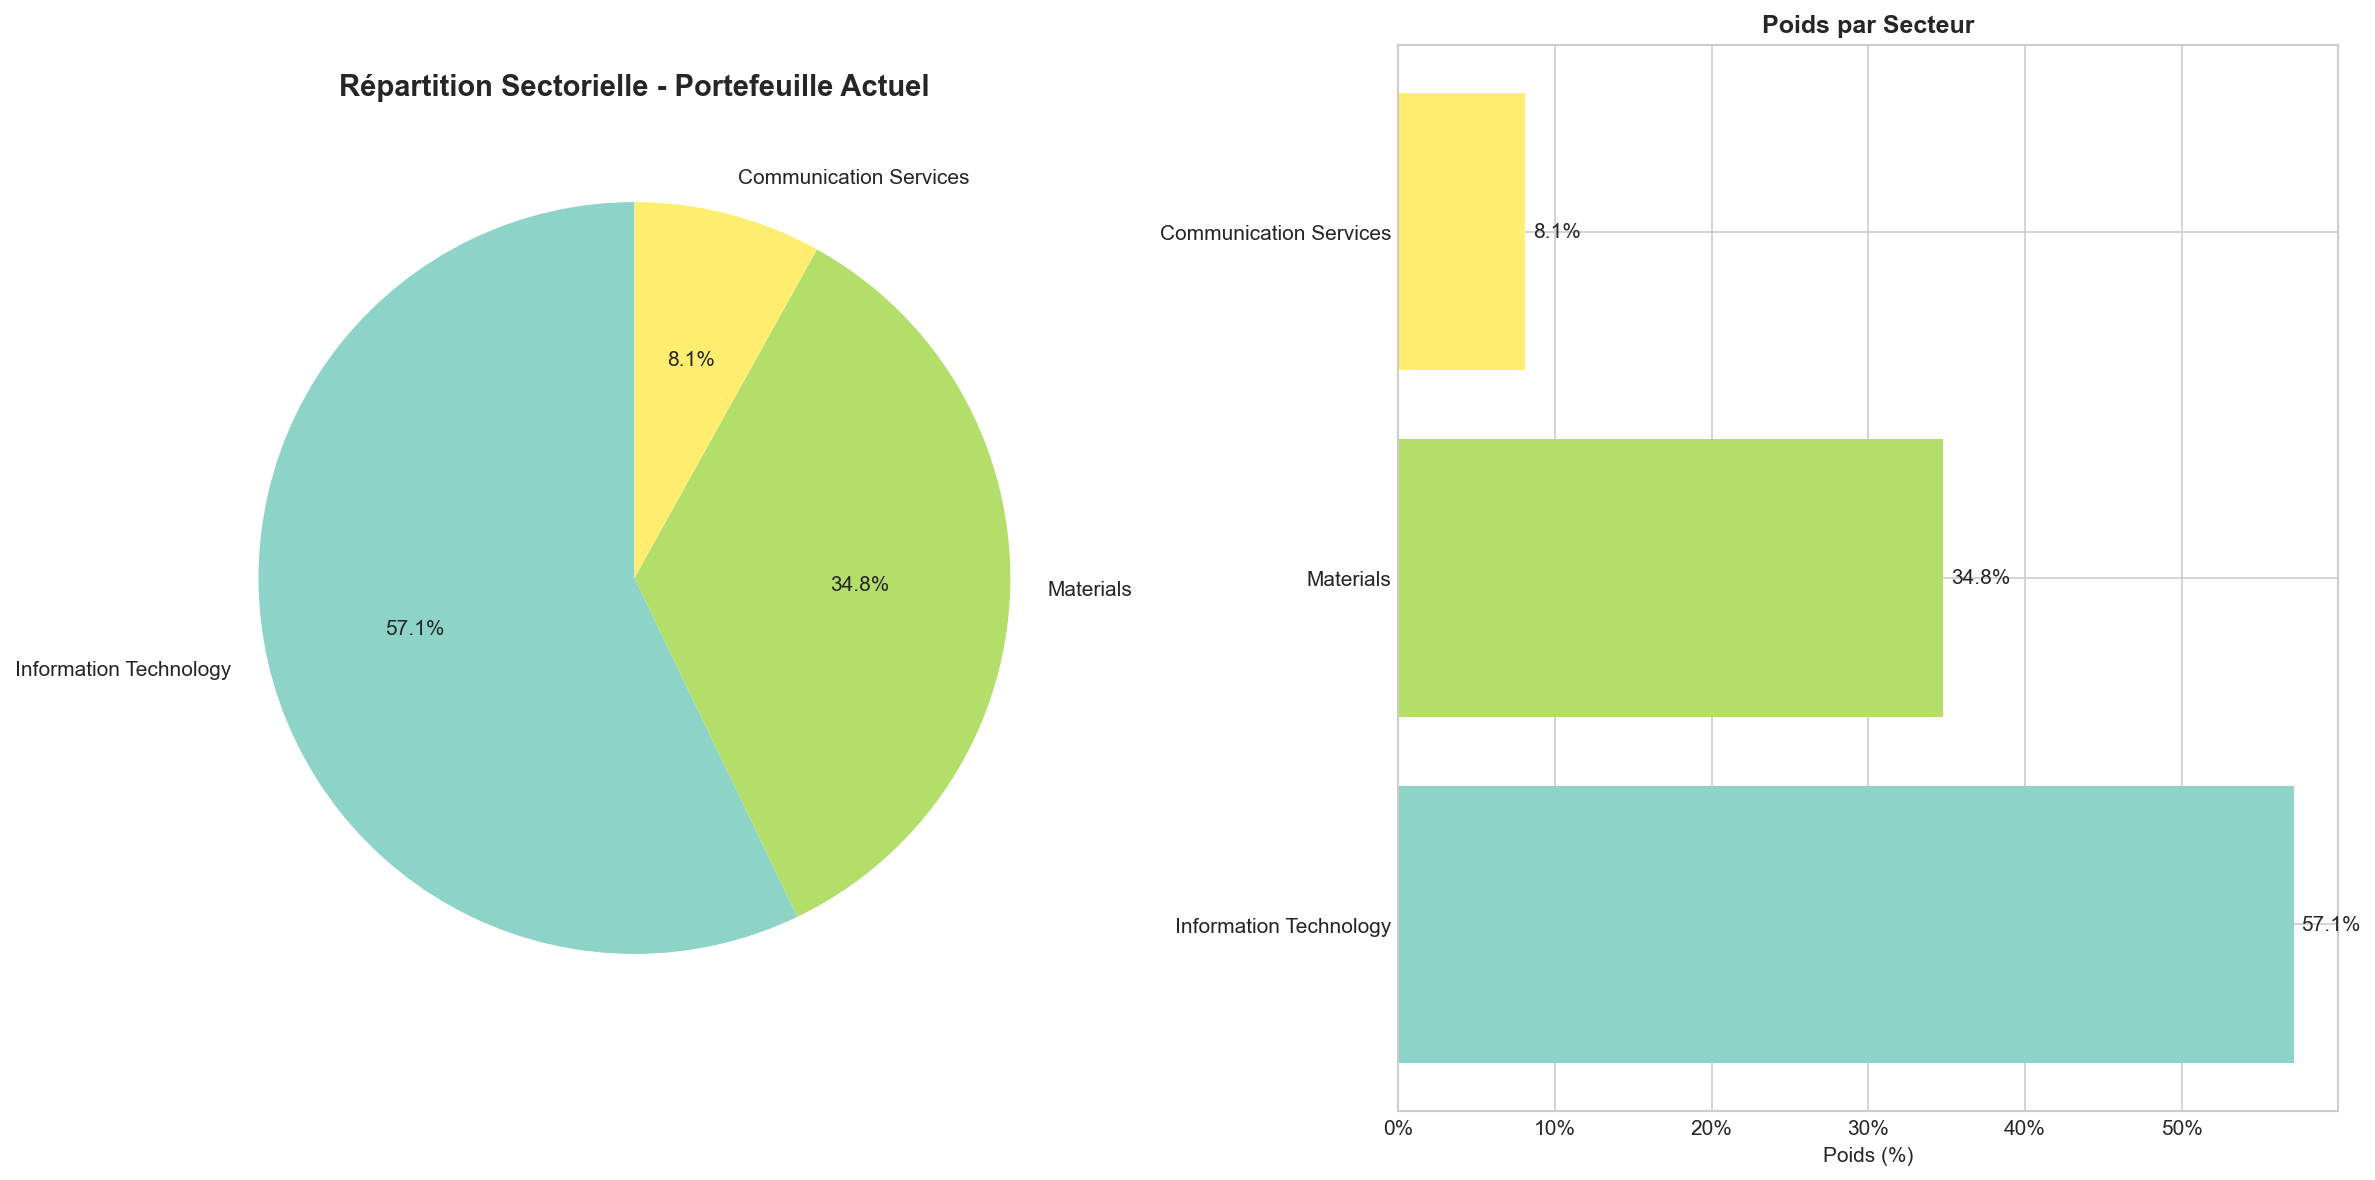
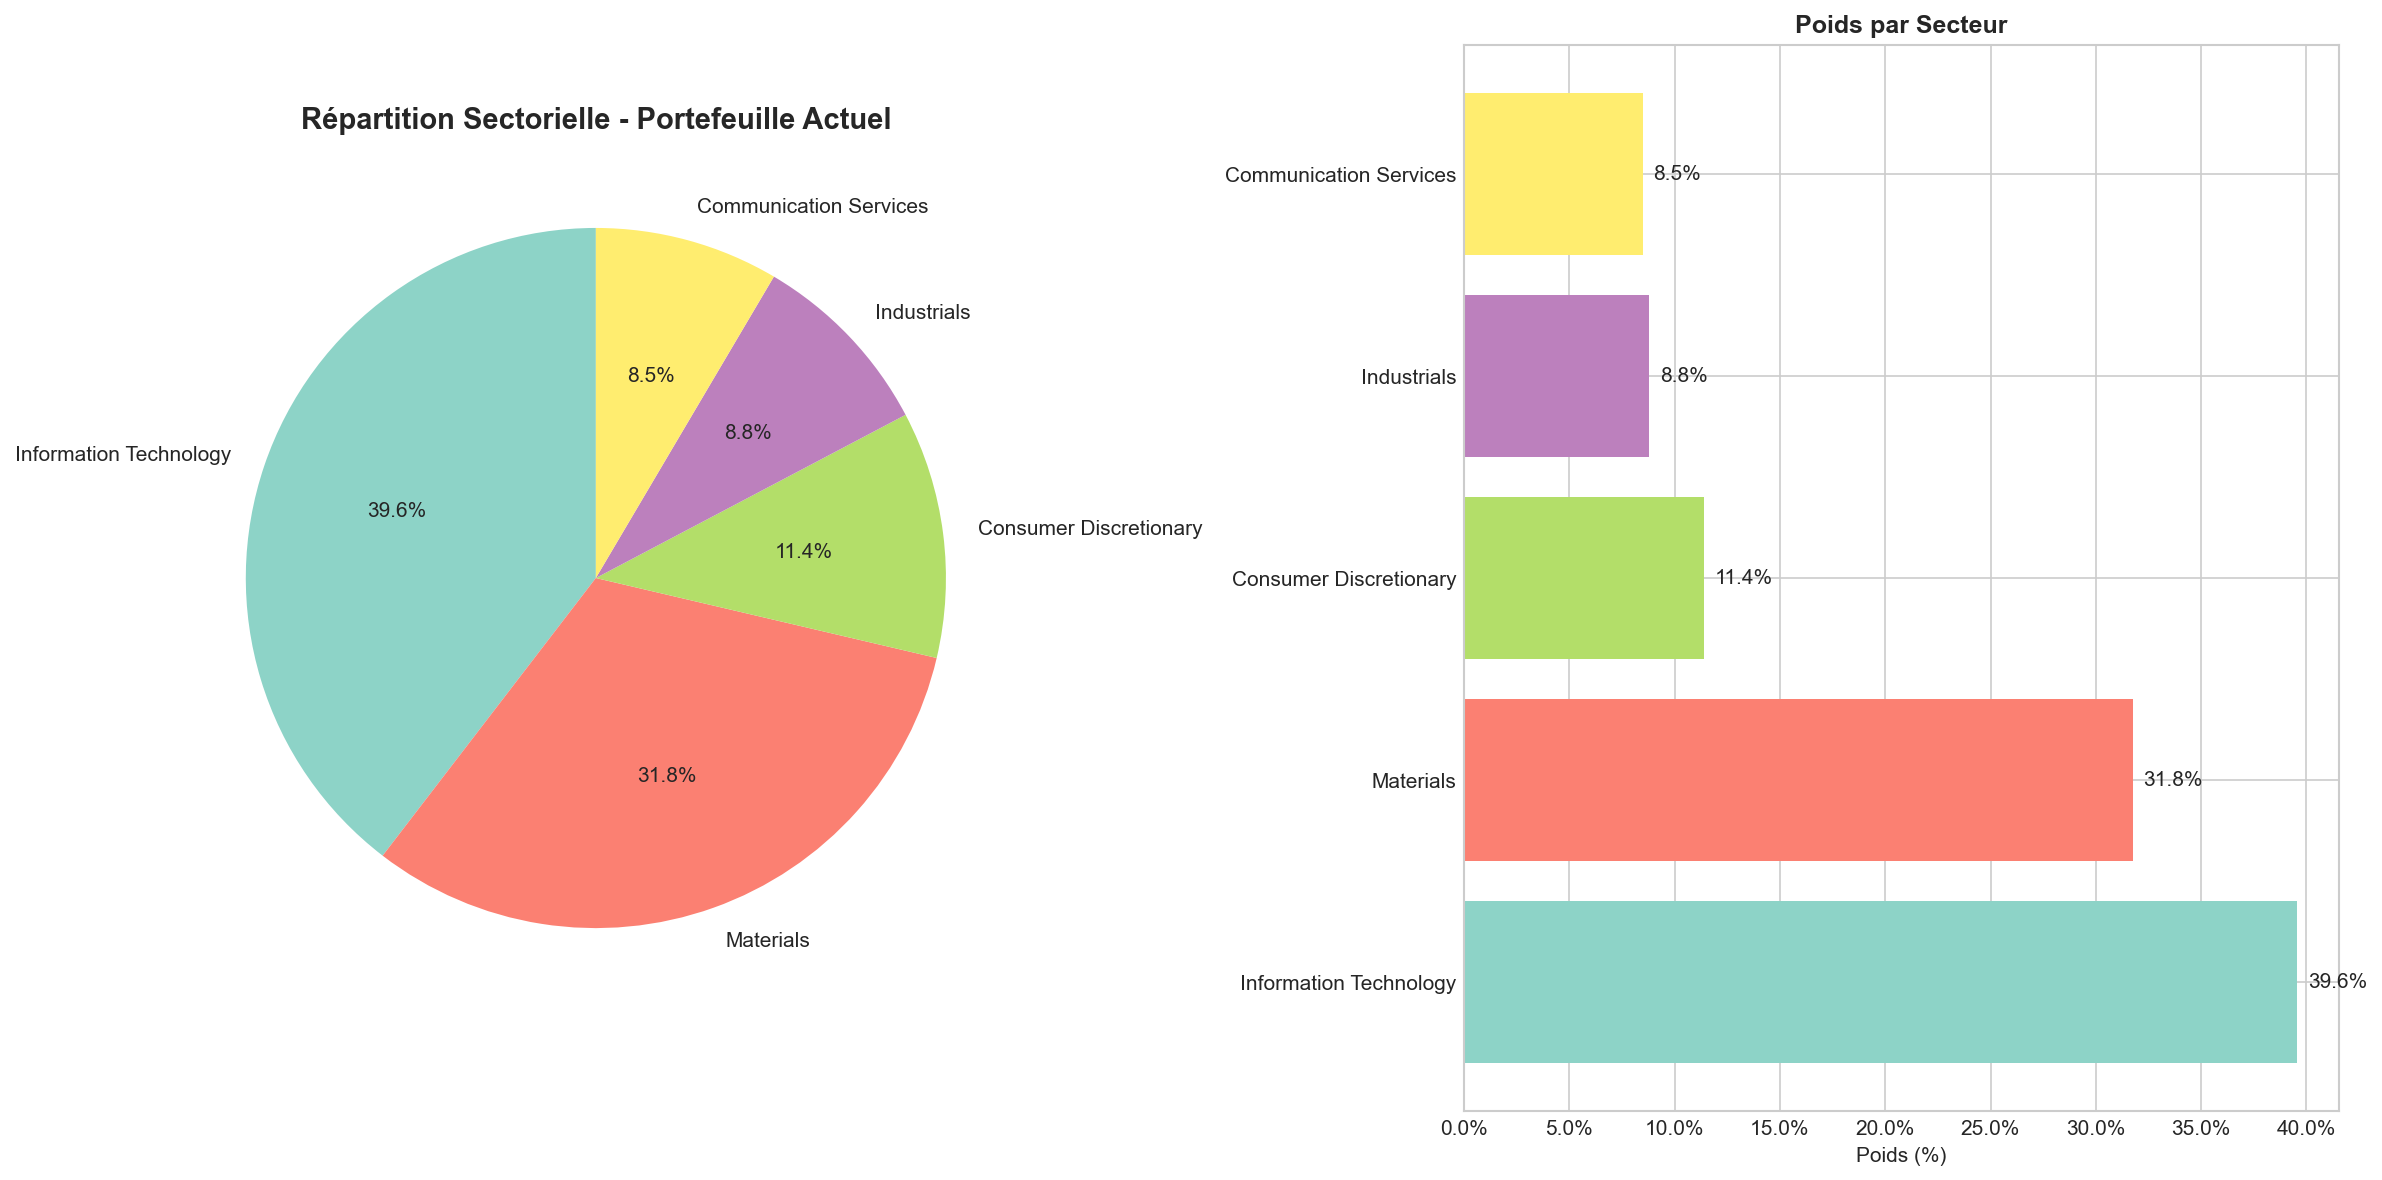
STRATÉGIE HYBRIDE VALUE/SIZE + COMPOSITE: 30%/70% allocation
Nouvelles fonctionnalités:
 Implémentation stratégie hybride avec allocation 30% VALUE/SIZE (5 actions) + 70% COMPOSITE (15 actions)
 Ajout des fonctions de scoring VALUE/SIZE basées sur P/B, P/E et Market Cap
 Extension data_loader.py avec chargement données fondamentales (load_pb_ratio, load_pe_ratio, load_market_cap)
 Modification backtest.py pour supporter la sélection hybride
 Mise à jour main.py pour utiliser la stratégie hybride par défaut

 Performance (CAGR 28.76%, Sharpe 2.07):
 CAGR: 28.76% (vs 27.2% pure momentum)
 Sharpe: 2.07 (maintien excellent niveau)
 Max DD: -7.85% (contrôlé)
 Hit Ratio: 73.33%
 Return total: +1168.34%

 Architecture technique:
 compute_value_score(), compute_size_score(), compute_value_size_score() dans signals.py
 select_hybrid_portfolio() avec allocation configurable
 Intégration transparente avec ERC allocation
 Fallback automatique sur score composite si données VALUE/SIZE indisponibles

diff --git a/signals.py b/signals.py
@@ -221,3 +221,132 @@ def select_top_n(
         kept = kept_scores.head(n).index.tolist()
 
     return kept
+
+
+# ═══════════════════════════════════════════════════════════════════
+#  VALUE et SIZE strategies
+# ═══════════════════════════════════════════════════════════════════
+
+def compute_value_score(fundamentals: dict, t: int, members: list = None) -> pd.Series:
+    """
+    Score VALUE basé sur P/B et P/E ratios.
+    Plus le ratio est faible (valorisation cheap), meilleur le score.
+    """
+    pb_df = fundamentals.get('pb_ratio', pd.DataFrame())
+    pe_df = fundamentals.get('pe_ratio', pd.DataFrame())
+    
+    if pb_df.empty and pe_df.empty:
+        return pd.Series(dtype=float)
+    
+    scores = pd.Series(dtype=float)
+    
+    # P/B ratio : plus faible = meilleur
+    if not pb_df.empty and t < len(pb_df):
+        pb_values = pb_df.iloc[t].dropna()
+        if len(pb_values) > 1:
+            pb_zscore = (pb_values - pb_values.mean()) / pb_values.std()
+            pb_score = -pb_zscore  # Inverser : faible P/B = score élevé
+            scores = scores.add(pb_score, fill_value=0)
+    
+    # P/E ratio : plus faible = meilleur
+    if not pe_df.empty and t < len(pe_df):
+        pe_values = pe_df.iloc[t].dropna()
+        if len(pe_values) > 1:
+            pe_zscore = (pe_values - pe_values.mean()) / pe_values.std()
+            pe_score = -pe_zscore  # Inverser : faible P/E = score élevé  
+            scores = scores.add(pe_score, fill_value=0)
+    
+    # Filtrer par membres autorisés
+    if members is not None:
+        scores = scores.reindex(members).dropna()
+    
+    return scores.sort_values(ascending=False)
+
+
+def compute_size_score(fundamentals: dict, t: int, members: list = None) -> pd.Series:
+    """
+    Score SIZE basé sur Market Cap.
+    Plus la capitalisation est faible (small caps), meilleur le score.
+    """
+    mcap_df = fundamentals.get('market_cap', pd.DataFrame())
+    
+    if mcap_df.empty or t >= len(mcap_df):
+        return pd.Series(dtype=float)
+    
+    mcap_values = mcap_df.iloc[t].dropna()
+    
+    if len(mcap_values) <= 1:
+        return pd.Series(dtype=float)
+    
+    # Inverser : petite capitalisation = score élevé
+    mcap_zscore = (mcap_values - mcap_values.mean()) / mcap_values.std()
+    size_score = -mcap_zscore
+    
+    # Filtrer par membres autorisés
+    if members is not None:
+        size_score = size_score.reindex(members).dropna()
+    
+    return size_score.sort_values(ascending=False)
+
+
+def compute_value_size_score(fundamentals: dict, t: int, members: list = None) -> pd.Series:
+    """
+    Score combiné VALUE + SIZE avec pondération égale.
+    """
+    value_score = compute_value_score(fundamentals, t, members)
+    size_score = compute_size_score(fundamentals, t, members)
+    
+    # Combiner avec normalisation
+    combined_score = pd.Series(dtype=float)
+    all_tickers = set()
+    
+    if not value_score.empty:
+        all_tickers.update(value_score.index)
+    if not size_score.empty:
+        all_tickers.update(size_score.index)
+    
+    if not all_tickers:
+        return pd.Series(dtype=float)
+    
+    # Normaliser et combiner
+    for ticker in all_tickers:
+        score = 0.0
+        count = 0
+        
+        if ticker in value_score.index:
+            score += value_score[ticker]
+            count += 1
+        if ticker in size_score.index:
+            score += size_score[ticker]
+            count += 1
+        
+        if count > 0:
+            combined_score[ticker] = score / count
+    
+    return combined_score.sort_values(ascending=False)
+
+
+def select_hybrid_portfolio(prices: pd.DataFrame, fundamentals: dict, t: int, 
+                           members: list = None, n_composite: int = 15, n_value_size: int = 5) -> list:
+    """
+    Sélection hybride : 70% composite (15 actions) + 30% value/size (5 actions).
+    """
+    # Sélection composite (momentum dominant)
+    composite_selected = select_top_n(prices, t, members=members, n=n_composite)
+    
+    # Sélection value/size
+    value_size_score = compute_value_size_score(fundamentals, t, members=members)
+    value_size_selected = value_size_score.head(n_value_size).index.tolist()
+    
+    # Éviter les doublons
+    value_size_final = [ticker for ticker in value_size_selected 
+                       if ticker not in composite_selected]
+    
+    # Si pas assez de titres value/size uniques, compléter avec composite
+    if len(value_size_final) < n_value_size:
+        needed = n_value_size - len(value_size_final)
+        extra_composite = [ticker for ticker in value_size_score.index 
+                          if ticker not in composite_selected and ticker not in value_size_final]
+        value_size_final.extend(extra_composite[:needed])
+    
+    return composite_selected + value_size_final[:n_value_size]

diff --git a/data_loader.py b/data_loader.py
@@ -68,6 +68,39 @@ def load_risk_free(path=DATA_FILE) -> pd.Series:
     return rf_annual
 
 
+def load_pb_ratio(path=DATA_FILE) -> pd.DataFrame:
+    """
+    Charge les ratios P/B depuis la feuille SPX_PX_TO_BOOK_RATIO.
+    """
+    df = pd.read_excel(path, sheet_name="SPX_PX_TO_BOOK_RATIO")
+    date_col = df.columns[0]
+    df[date_col] = pd.to_datetime(df[date_col], dayfirst=True)
+    df = df.set_index(date_col).sort_index()
+    return df.select_dtypes(include=[np.number])
+
+
+def load_pe_ratio(path=DATA_FILE) -> pd.DataFrame:
+    """
+    Charge les ratios P/E depuis la feuille SPX_PE_RATIO.
+    """
+    df = pd.read_excel(path, sheet_name="SPX_PE_RATIO")
+    date_col = df.columns[0]
+    df[date_col] = pd.to_datetime(df[date_col], dayfirst=True)
+    df = df.set_index(date_col).sort_index()
+    return df.select_dtypes(include=[np.number])
+
+
+def load_market_cap(path=DATA_FILE) -> pd.DataFrame:
+    """
+    Charge les market caps depuis la feuille SPX_CUR_MKT_CAP.
+    """
+    df = pd.read_excel(path, sheet_name="SPX_CUR_MKT_CAP")
+    date_col = df.columns[0]
+    df[date_col] = pd.to_datetime(df[date_col], dayfirst=True)
+    df = df.set_index(date_col).sort_index()
+    return df.select_dtypes(include=[np.number])
+
+
 def load_sectors(path=DATA_FILE) -> pd.DataFrame:
     """
     Charge les secteurs depuis la feuille SPX_Sector.
@@ -189,7 +222,8 @@ def load_all(path=DATA_FILE):
         "spx_daily"      : Series SPX daily
         "rf_annual"      : Series taux sans risque annuel
         "sofr_plus_4_m"  : Series SOFR + 4% mensuel
-        "df_sectors"     : DataFrame mapping ticker -> secteur
+        "df_sectors"     : DataFrame mapping ticker -> secteur 
+        "fundamentals"   : Dict avec pb_ratio, pe_ratio, market_cap
         "rebal_dates"    : list de dates de rebalancement
     """
     # Chargement
@@ -221,6 +255,29 @@ def load_all(path=DATA_FILE):
         print("  [!] Feuille SPX_Sector non trouvee -> secteurs vides")
         df_sectors = pd.DataFrame(columns=['ticker', 'sector'])
 
+    # Donnees fondamentales pour VALUE/SIZE
+    fundamentals = {}
+    try:
+        fundamentals['pb_ratio'] = load_pb_ratio(path)
+        print(f"  P/B ratios charges : {fundamentals['pb_ratio'].shape}")
+    except Exception as e:
+        print(f"  [!] P/B ratios non disponibles : {e}")
+        fundamentals['pb_ratio'] = pd.DataFrame()
+    
+    try:
+        fundamentals['pe_ratio'] = load_pe_ratio(path)
+        print(f"  P/E ratios charges : {fundamentals['pe_ratio'].shape}")
+    except Exception as e:
+        print(f"  [!] P/E ratios non disponibles : {e}")
+        fundamentals['pe_ratio'] = pd.DataFrame()
+    
+    try:
+        fundamentals['market_cap'] = load_market_cap(path)
+        print(f"  Market Cap charge : {fundamentals['market_cap'].shape}")
+    except Exception as e:
+        print(f"  [!] Market Cap non disponible : {e}")
+        fundamentals['market_cap'] = pd.DataFrame()
+
     # Pivot + filtre
     prices = pivot_prices(df_long)
     prices = filter_universe(prices)
@@ -240,6 +297,7 @@ def load_all(path=DATA_FILE):
         "rf_annual":      rf_annual,
         "sofr_plus_4_m":  sofr_plus_4_m,
         "df_sectors":     df_sectors,
+        "fundamentals":   fundamentals,
         "rebal_dates":    rebal_dates,
     }
 
@@ -254,4 +312,7 @@ if __name__ == "__main__":
     print("Rf annual pts    :", len(data["rf_annual"]))
     print("SOFR+4% pts      :", len(data["sofr_plus_4_m"]))
     print("Secteurs shape   :", data["df_sectors"].shape)
+    print("P/B ratios shape :", data["fundamentals"]["pb_ratio"].shape)
+    print("P/E ratios shape :", data["fundamentals"]["pe_ratio"].shape)
+    print("Market Cap shape :", data["fundamentals"]["market_cap"].shape)
     print("Exemple tickers  :", list(data["prices"].columns[:5]))

diff --git a/main.py b/main.py
@@ -29,7 +29,7 @@ from config import START_DATE, END_DATE, N_STOCKS, OUTPUT_DIR, ESG_EXCLUSIONS, E
 
 
 def print_current_portfolio(result: dict):
-    """Affiche les 25 titres et leurs poids pour la dernière période."""
+    """Affiche les titres (20 hybride) et leurs poids pour la dernière période."""
     last_w = result["last_weights"]
     last_date = result["last_date"]
 
@@ -42,8 +42,9 @@ def print_current_portfolio(result: dict):
 
     print("\n" + "=" * 60)
     print(f"  PORTEFEUILLE ACTUEL — {last_date.strftime('%Y-%m-%d')}")
-    print(f"  Méthode : Score Composite + ERC Long-Only (ESG)")
-    print(f"  Nombre de titres : {len(last_w)}")
+    print(f"  Méthode : Stratégie Hybride VALUE/SIZE + COMPOSITE (ESG)")
+    print(f"  Allocation : 30% VALUE/SIZE (5 actions) + 70% COMPOSITE (15 actions)")
+    print(f"  Nombre total de titres : {len(last_w)}")
     print("=" * 60)
     print(f"  {'#':<4} {'Ticker':<12} {'Poids':>10}")
     print("  " + "-" * 28)
@@ -67,19 +68,20 @@ def print_current_portfolio(result: dict):
 
 def main():
     print("=" * 60)
-    print("  BACKTEST LONG-ONLY ERC — S&P 500 (filtre ESG)")
-    print(f"  Top {N_STOCKS} titres par score composite")
+    print("  BACKTEST HYBRIDE VALUE/SIZE + COMPOSITE — S&P 500 (filtre ESG)")
+    print(f"  Portefeuille Hybride : 30% VALUE/SIZE (5 actions) + 70% COMPOSITE (15 actions)")
     print("=" * 60)
 
     # ── 1. Chargement des données ──
     print("\n[1/4] Chargement des données...")
     data = load_all()
 
-    prices     = data["prices"]
-    returns    = data["returns"]
-    df_long    = data["df_long"]
-    rf_annual  = data["rf_annual"]
-    df_sectors = data["df_sectors"]
+    prices      = data["prices"]
+    returns     = data["returns"]
+    df_long     = data["df_long"]
+    rf_annual   = data["rf_annual"]
+    df_sectors  = data["df_sectors"]
+    fundamentals = data["fundamentals"]
 
     # Initialiser le taux sans risque dans metrics
     set_rf_series(rf_annual)
@@ -118,10 +120,12 @@ def main():
         print(f"  Rf moyen : {rf_annual.mean():.2%} annualise")
 
     # ── 2. Lancement du backtest ──
-    print("\n[2/4] Lancement du backtest Long-Only ERC (ESG)...")
+    print("\n[2/4] Lancement du backtest Hybride VALUE/SIZE + COMPOSITE (ESG)...")
 
     result = run_backtest(
         prices, returns, df_long,
+        fundamentals=fundamentals,
+        use_hybrid_strategy=True,
         stoploss_type="position",
         verbose=True,
     )

diff --git a/backtest.py b/backtest.py
@@ -9,7 +9,7 @@ import pandas as pd
 import numpy as np
 
 from config import START_DATE, END_DATE, N_STOCKS, REBAL_FREQ
-from signals import select_top_n
+from signals import select_top_n, select_hybrid_portfolio
 from allocation import allocate
 from costs import compute_turnover, compute_cost
 from data_loader import get_members_at_date
@@ -64,6 +64,8 @@ def run_backtest(
     prices: pd.DataFrame,
     returns: pd.DataFrame,
     df_long: pd.DataFrame,
+    fundamentals: dict = None,
+    use_hybrid_strategy: bool = False,
     stoploss_type: str = "position",
     verbose: bool = False,
 ) -> dict:
@@ -75,6 +77,8 @@ def run_backtest(
     prices       : DataFrame (date × ticker) — prix mensuels
     returns      : DataFrame (date × ticker) — rendements mensuels
     df_long      : DataFrame format long (date, ticker, px_last)
+    fundamentals : dict avec clés pb_ratio, pe_ratio, market_cap — données fondamentales
+    use_hybrid_strategy : bool — utilise la stratégie hybride VALUE/SIZE + COMPOSITE
     stoploss_type: type de stop-loss ("position", "trailing", "portfolio", "volatility")
     verbose      : affiche le détail à chaque date
 
@@ -126,9 +130,15 @@ def run_backtest(
         # ── 1. Univers à la date ──
         members = get_members_at_date(df_long, date)
 
-        # ── 2. Sélection top N par score composite (avec buffer) ──
-        stock_list = select_top_n(prices, t, members=members, n=N_STOCKS,
-                                  prev_stocks=prev_stocks)
+        # ── 2. Sélection top N par score composite ou hybride ──
+        if use_hybrid_strategy and fundamentals:
+            stock_list = select_hybrid_portfolio(
+                prices, fundamentals, t, members=members
+            )
+        else:
+            stock_list = select_top_n(prices, t, members=members, n=N_STOCKS,
+                                      prev_stocks=prev_stocks)
+                
         if not stock_list:
             continue
 
